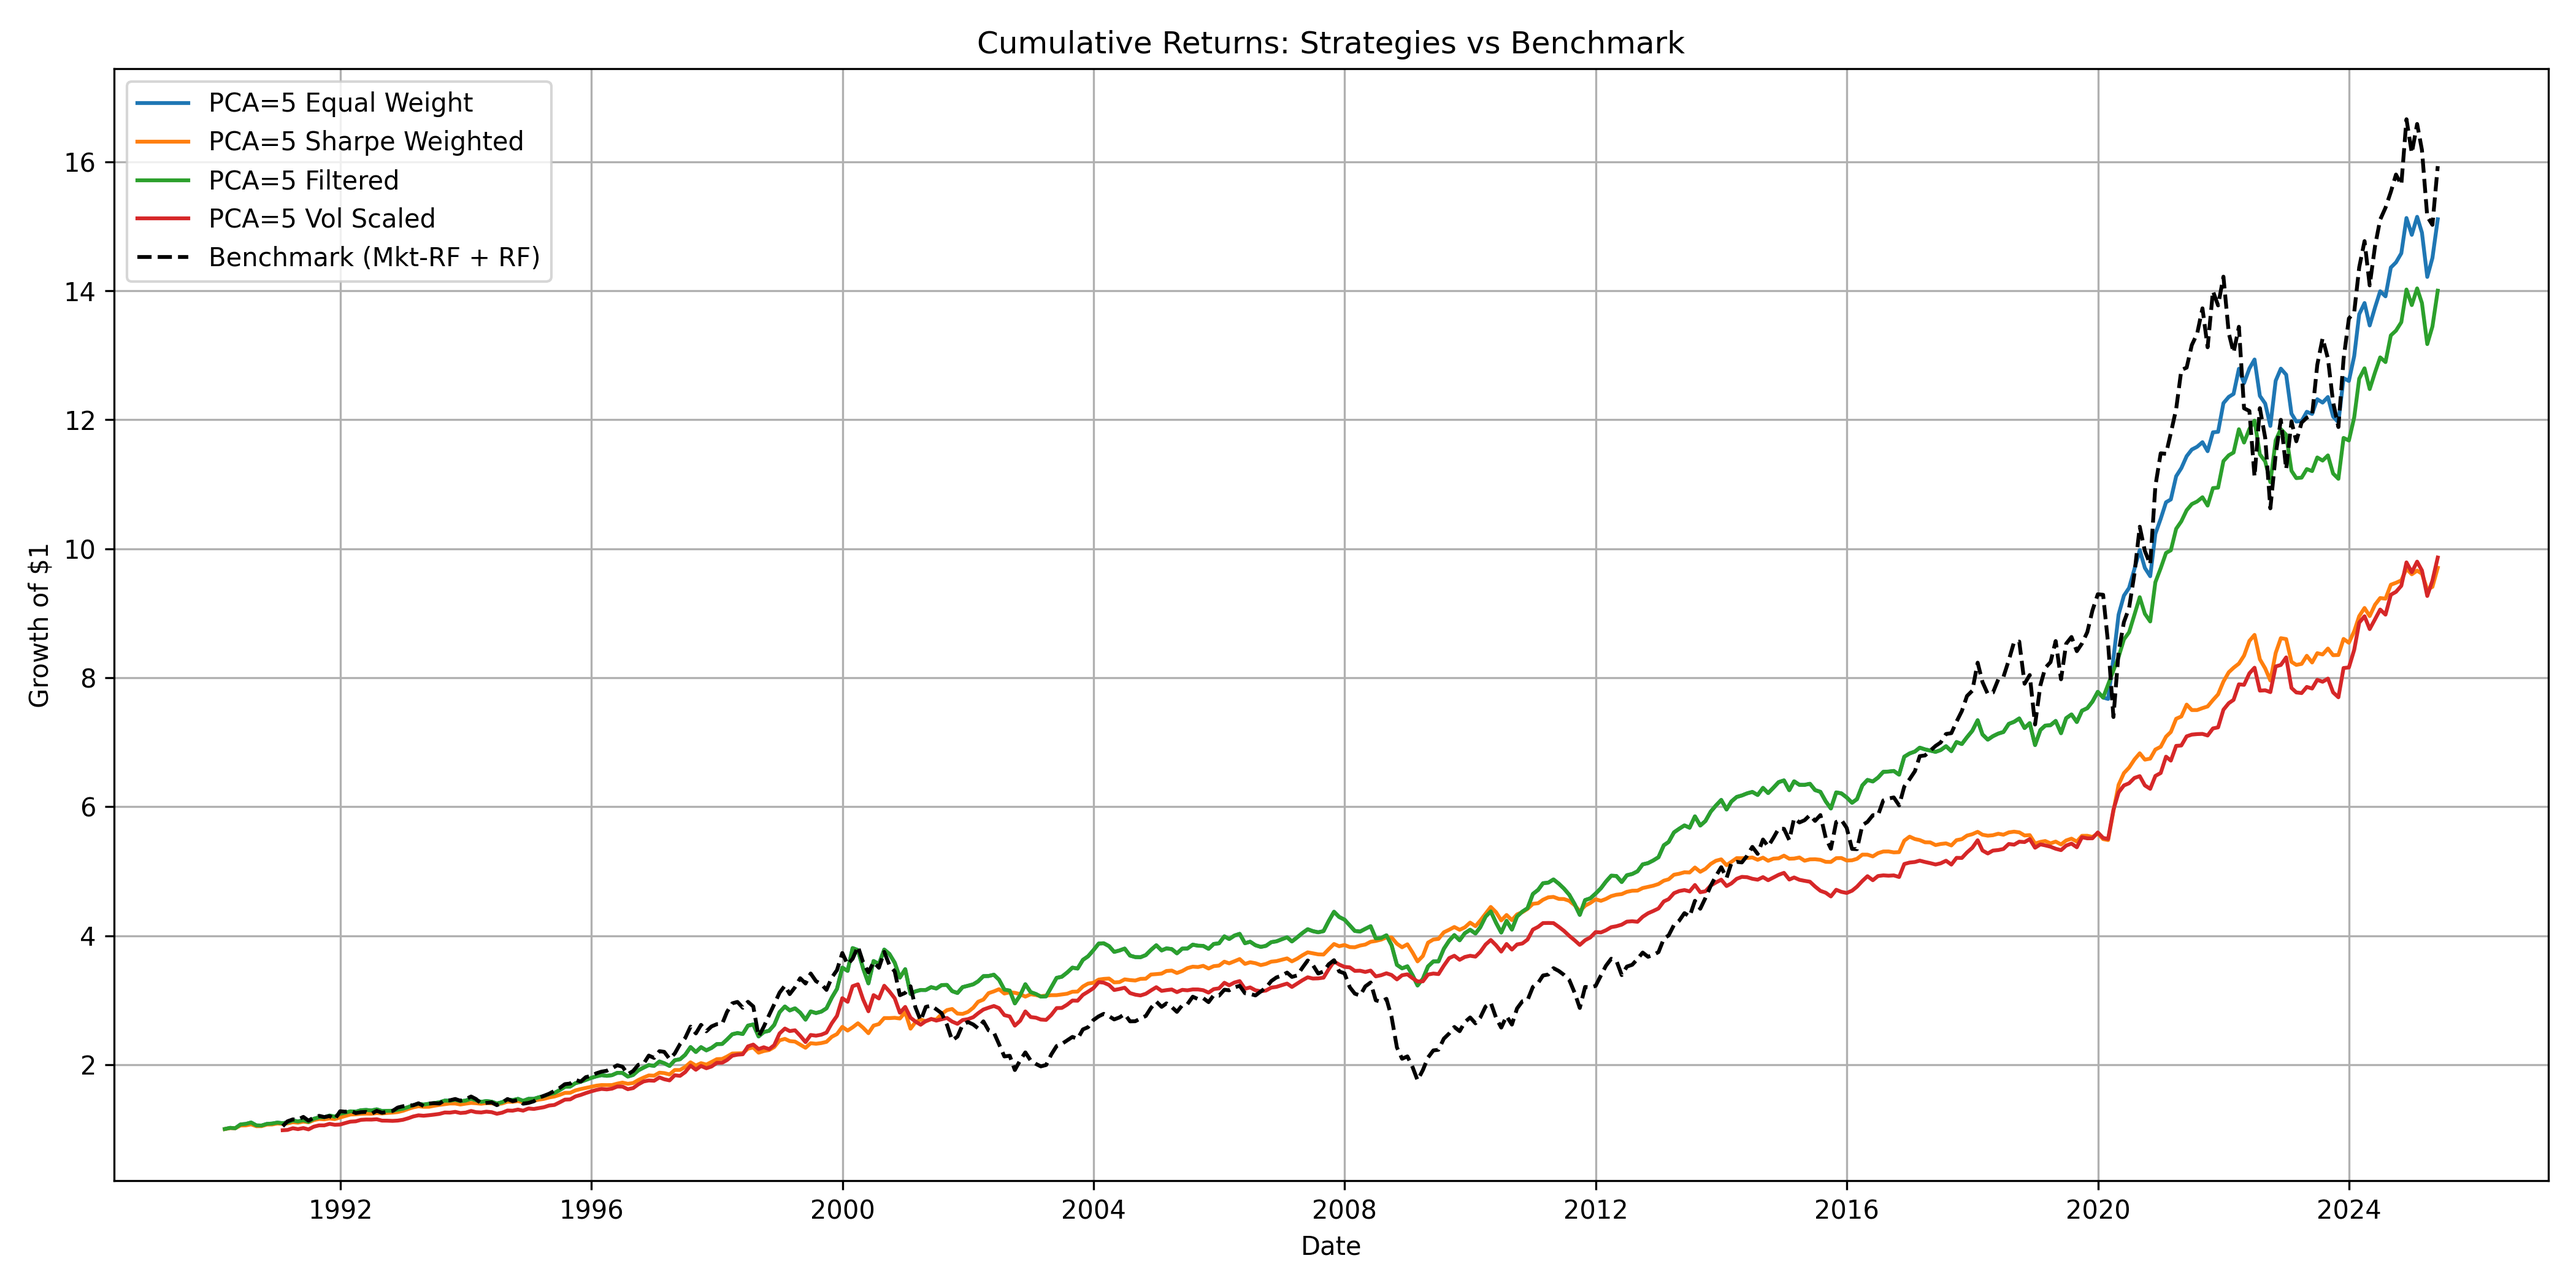
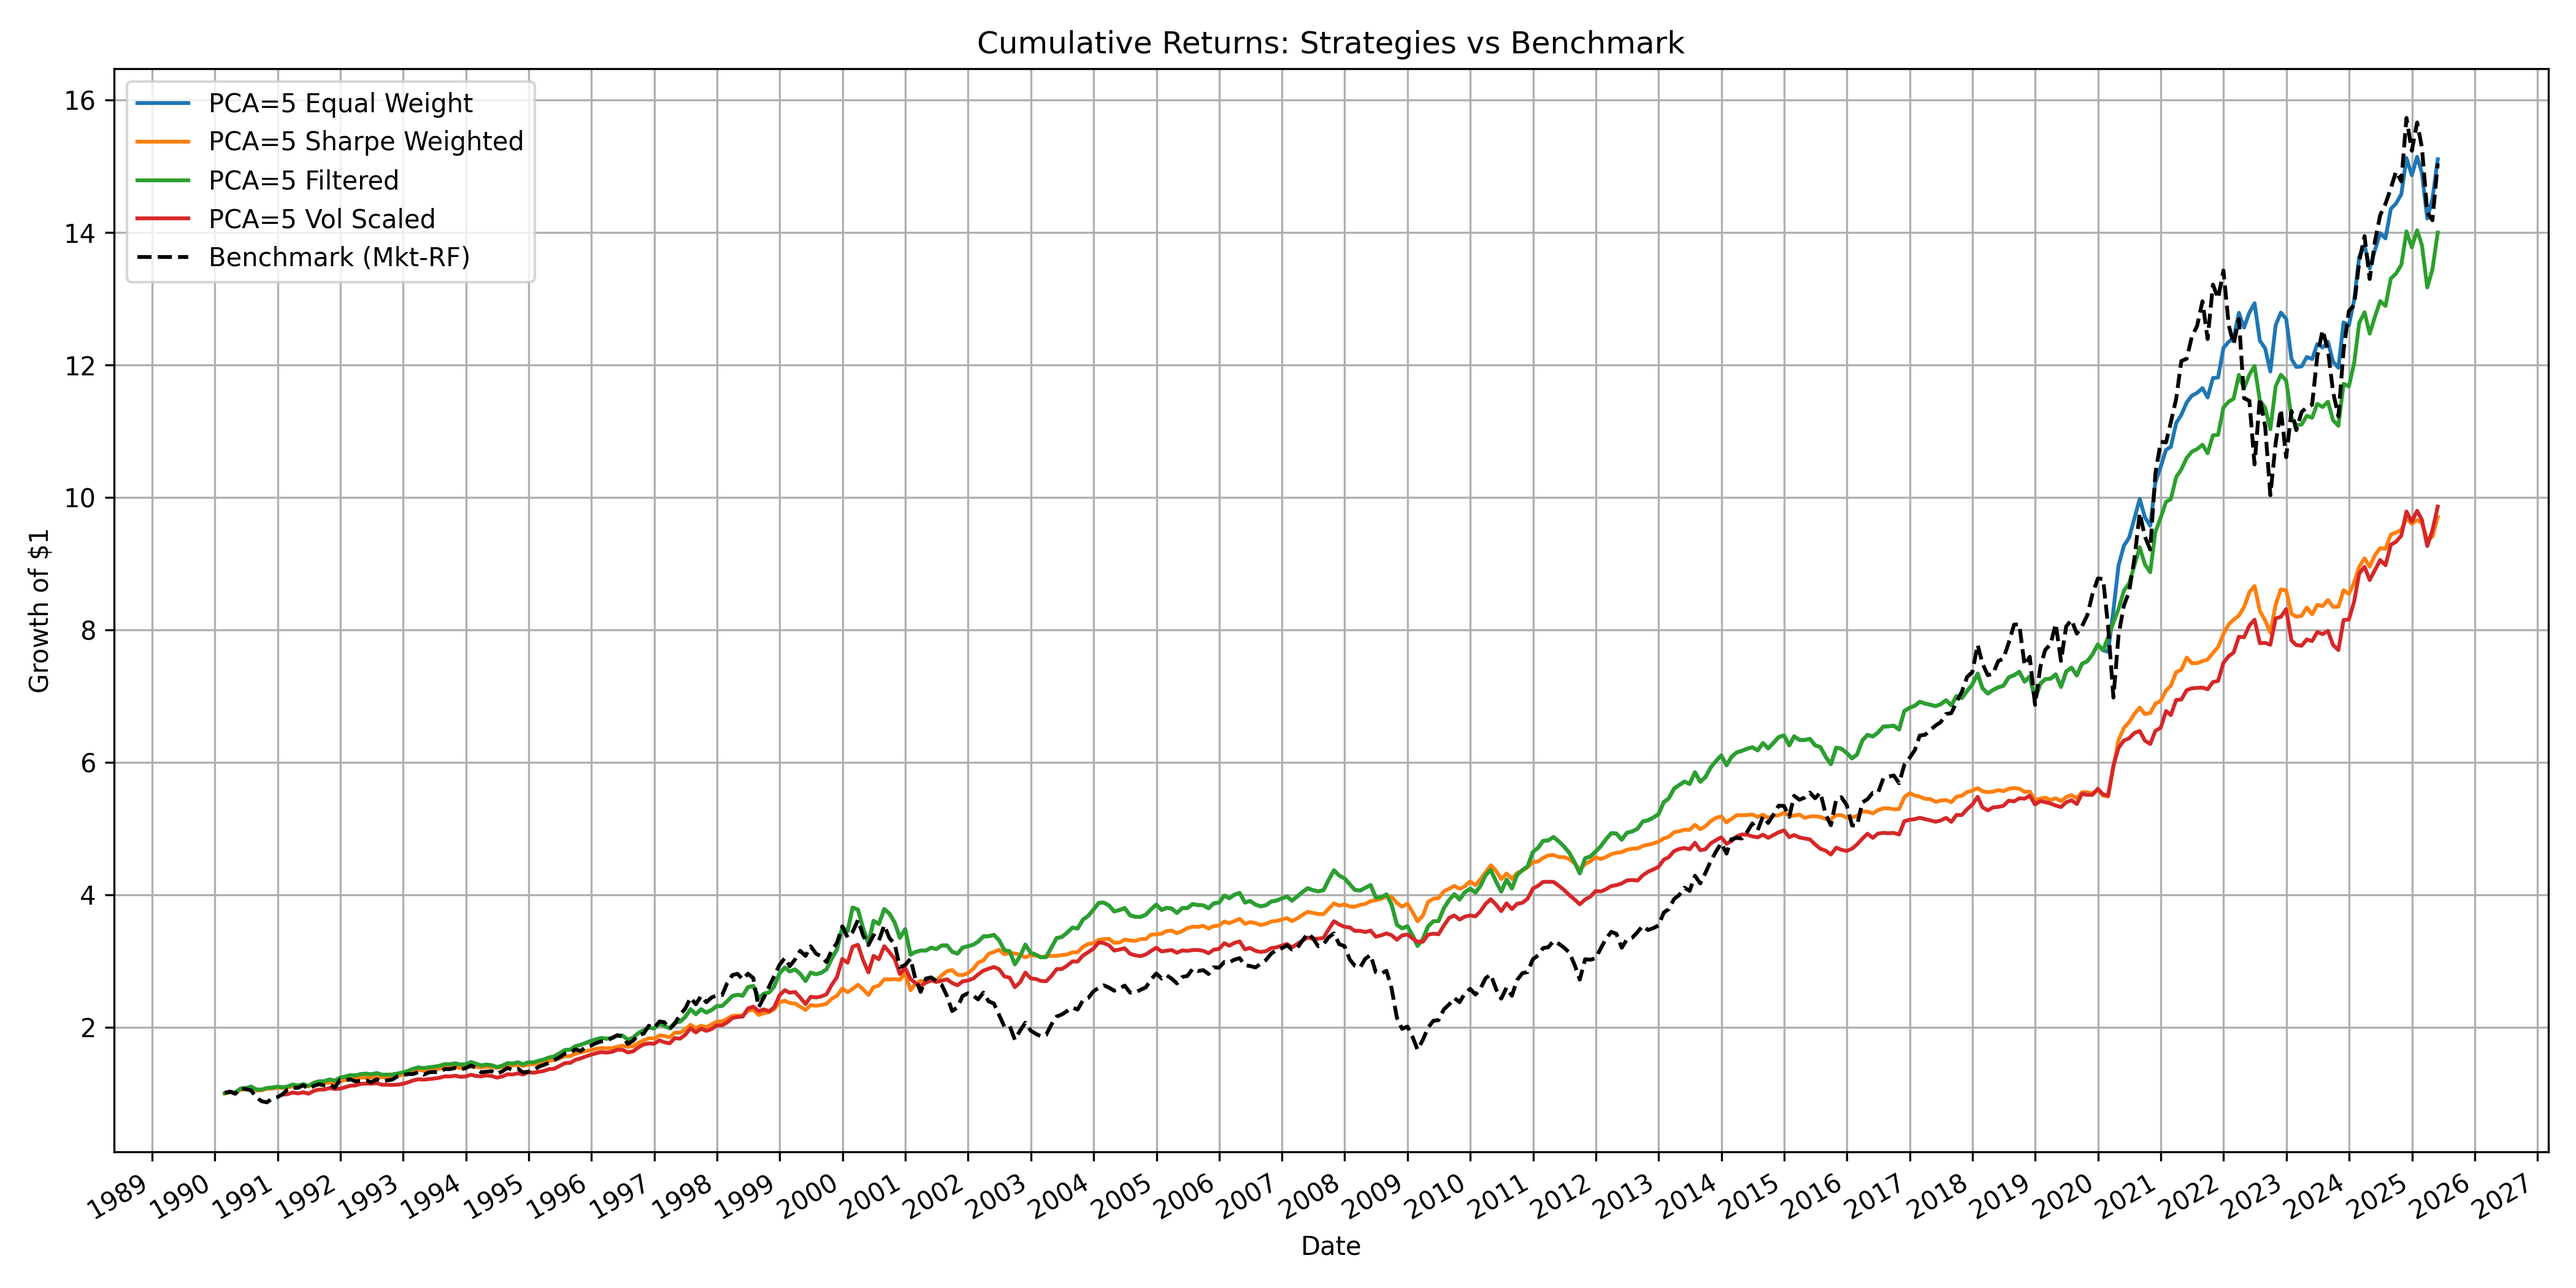
neatinging

diff --git a/data/ken_french_data/simulate_strategy.py b/data/ken_french_data/simulate_strategy.py
@@ -133,13 +133,16 @@ def compare_all_strategies(strategy_dict, benchmark_series, n_pca_components, ti
         plt.plot(cumulative, label=label)
 
     # Plot benchmark
-    benchmark_cum = (1 + benchmark_series / 100).loc[returns.index].cumprod()
+    benchmark_cum = (1 + benchmark_series / 100).cumprod()
     plt.plot(benchmark_cum, label="Benchmark (Mkt-RF)", linestyle='--', color='black')
 
     # Plot styling
     plt.title(title)
     plt.ylabel("Growth of $1")
     plt.xlabel("Date")
+    plt.gca().xaxis.set_major_locator(mdates.YearLocator(base=1))  # Every 2 years
+    plt.gca().xaxis.set_major_formatter(mdates.DateFormatter('%Y'))
+    plt.gcf().autofmt_xdate()  # Rotate x-axis labels for readability
     plt.grid(True)
     plt.legend()
     plt.tight_layout()

diff --git a/data/ken_french_data/pipeline_strategy.py b/data/ken_french_data/pipeline_strategy.py
@@ -39,7 +39,7 @@ all_factors = pd.merge(fama_french_5, momentum, how="inner", on='Date')  # Merge
 all_factors.set_index('Date', inplace=True)
 
 all_factors = all_factors.apply(pd.to_numeric, errors='coerce')  # Convert all columns to numeric
-all_factors.to_csv('factors_data.csv', index=True)
+all_factors.to_csv('data\\strategy_output\\factors_data.csv', index=True)
 logging.info('Created and saved factors dataframe')
 
 print()
